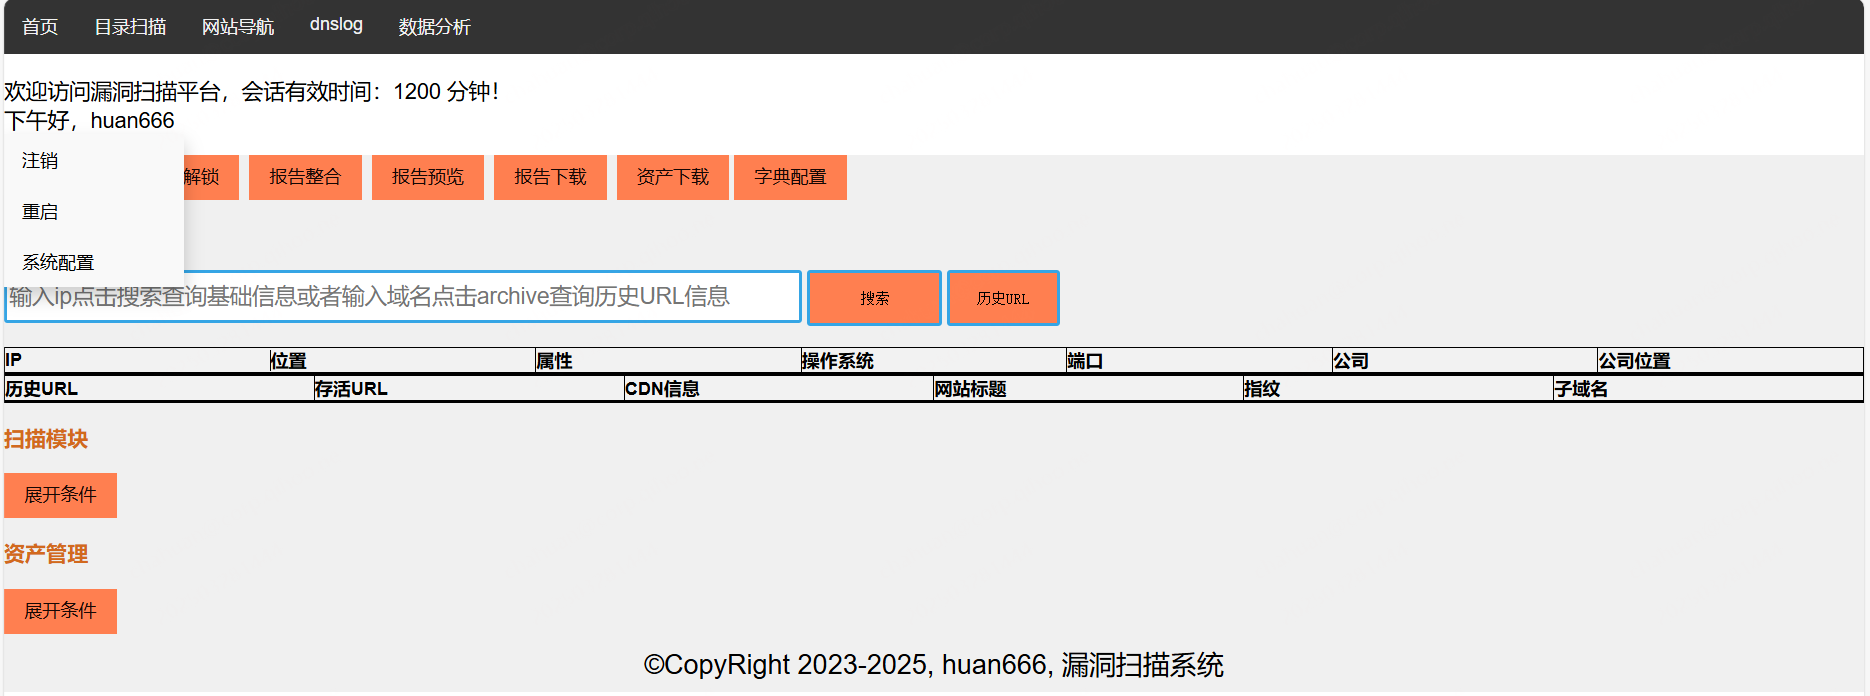
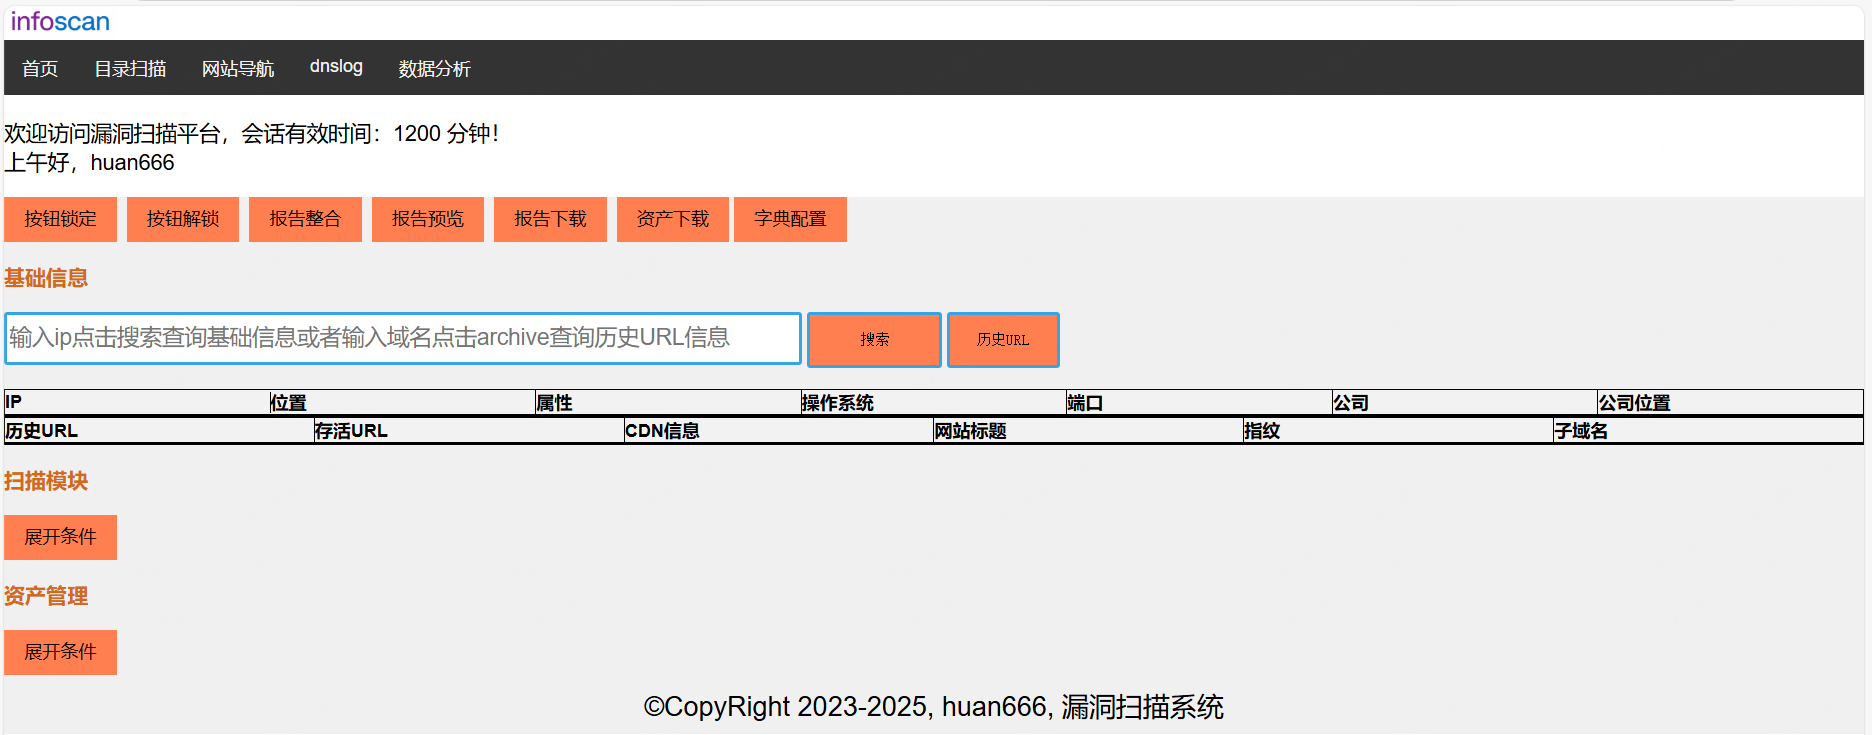
update

Changed region(s): [[0.0, 0.0, 1.0, 0.3319], [0.0, 0.3621, 1.0, 0.9353], [0.3412, 0.9353, 0.6513, 0.9957]]

diff --git a/templates/index.html b/templates/index.html
@@ -12,16 +12,23 @@
 </head>
 
 <body>
+
+	<div class="logo">
+		<img src="{{ url_for( 'static',filename='image/logo.png') }}" alt="Logo" style="width: 100px;">
+	</div>
+
 	<div class="top-menu">
 		<a href="#index" onclick="fanhui()">首页</a>
 		<a href="#dirscanpage" onclick="jumpdirscanpage()">目录扫描</a>
 		<a href="/siteroute/" target="_blank">网站导航</a>
 		<a href="#dnslog" onclick="dnslogfunc()">dnslog</a>
 		<a href="#data" onclick="openModal()">数据分析</a>
-		
+
 
 	</div>
+
 	<div class="content">
+
 		<span style="display: block; text-align: left;font-size: larger;">欢迎访问漏洞扫描平台，会话有效时间：{{data22}} 分钟！</span>
 
 		<div class="dropdown">

diff --git a/static/css/common.css b/static/css/common.css
@@ -485,12 +485,10 @@
 		.top-menu {
 			background-color: #333;
 			overflow: hidden;
-			position: static;
-			/* 固定定位 */
-			top: 0;
+			position: relative; /* 确保在 LOGO 下面 */
 			width: 100%;
-			z-index: 1000;
-			/* 确保菜单在页面内容之上 */
+			z-index: 999; /* 确保比 LOGO 低 */
+			margin-top: 30px; /* 让菜单下移，避免遮挡 LOGO */
 		}
 
 		.top-menu a {
@@ -753,3 +751,9 @@
             background: #f0f0f0;
 			font-size:x-large;
         }
+		.logo {
+			position: absolute;
+			top: 0px; /* 距离顶部0px */
+			left: 0px; /* 距离左侧0px */
+			z-index: 1000; /* 确保在其他元素之上 */
+		}

diff --git a/readme.md b/readme.md
@@ -68,6 +68,7 @@ mysql账号密码：admin/123456<br>
 1.新增时间段显示，上午、中午、下午、晚上；<br>
 2.前端页面优化，注销、重启、系统配置，修改到鼠标放用户名显示，移除消失效果；<br>
 3.已知问题处理与优化；<br>
+4.新增logo图标；<br>
 </li>
 <li>
 2025-3-19更新<br> 
